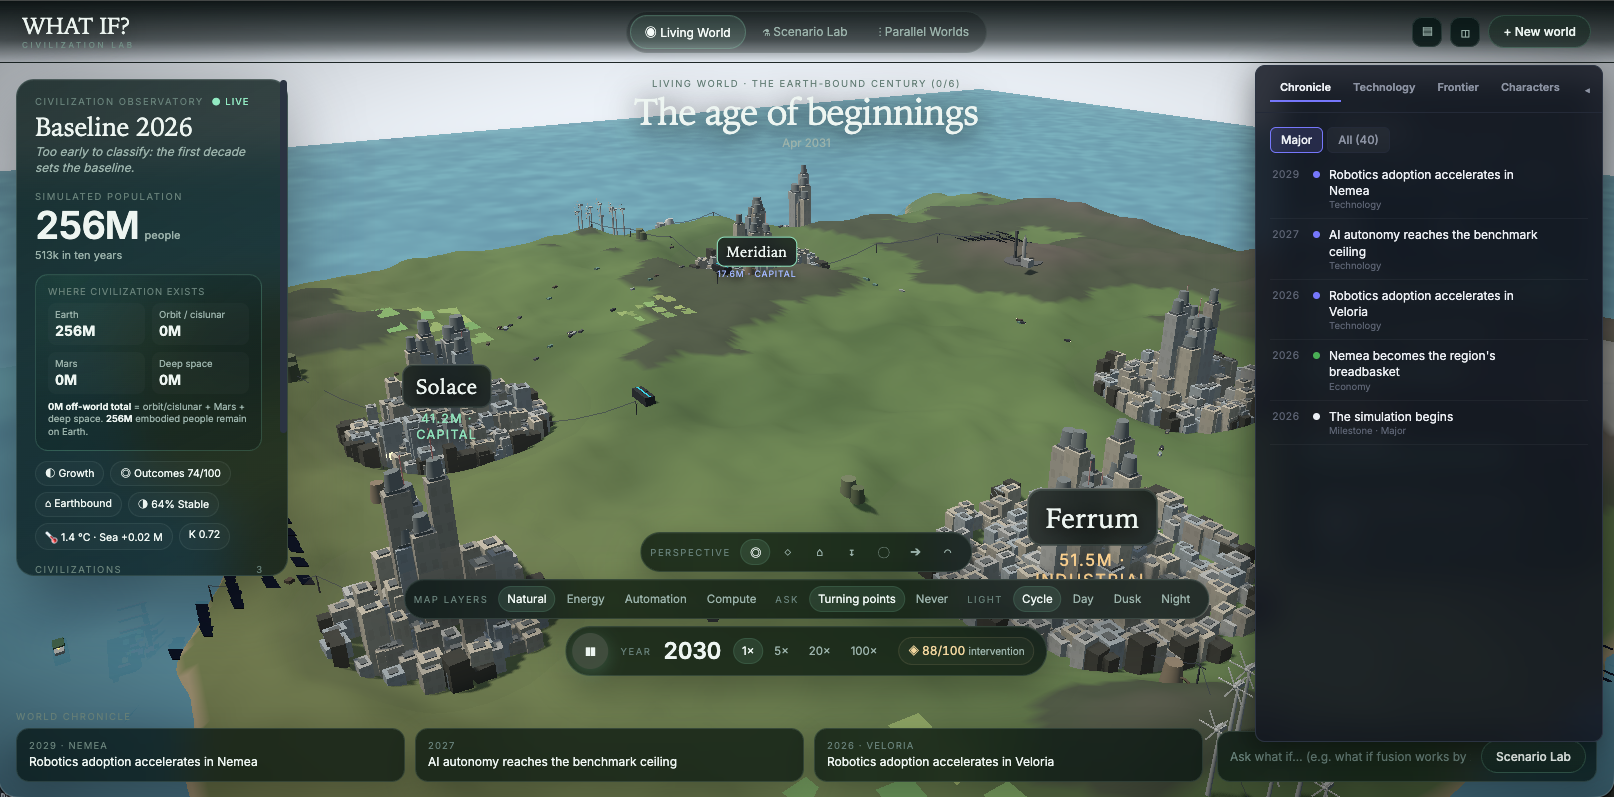
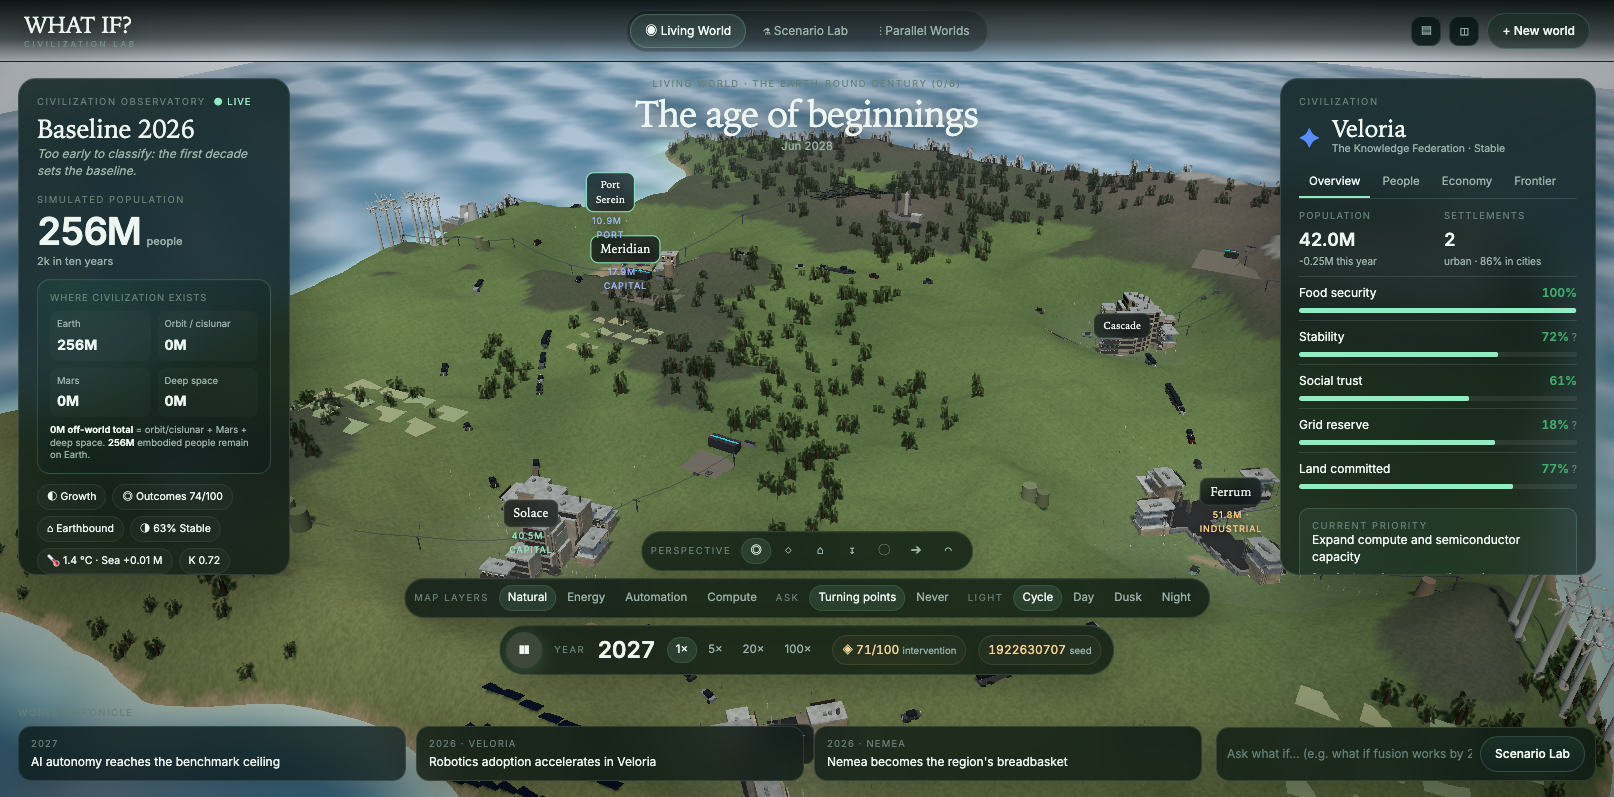
CDN build: one fiber instance for the react-three family; README world view recaptured

diff --git a/tools/build-cdn.py b/tools/build-cdn.py
@@ -58,6 +58,15 @@ open(os.path.join(DIST, 'index.css'), 'w').write(preflight + css)
 pkg = json.load(open('package.json')); d = pkg['dependencies']
 v = lambda k: d[k].lstrip('^~')
 ext = 'external=react,react-dom,three'
+# The react-three family must share ONE @react-three/fiber instance: drei and
+# postprocessing import fiber internally, and esm.sh resolves that to the newest
+# 9.x by itself - the day fiber 9.8.2 appeared, drei bundles carried a second
+# fiber whose hook context was not the <Canvas> context the app's fiber created,
+# and the world failed with "R3F: Hooks can only be used within the Canvas
+# component!" (worked for months while both sides resolved to 9.7.0). `deps=`
+# pins their dependency graph to exactly the fiber version package.json names.
+FIBER = v('@react-three/fiber')
+ext_r3f = f"{ext}&deps=@react-three/fiber@{FIBER}"
 importmap = {"imports": {
   "react": f"https://esm.sh/react@{v('react')}",
   "react/": f"https://esm.sh/react@{v('react')}/",
@@ -66,9 +75,9 @@ importmap = {"imports": {
   "react-dom/client": f"https://esm.sh/react-dom@{v('react-dom')}/client?external=react",
   "three": f"https://esm.sh/three@{v('three')}",
   "three/": f"https://esm.sh/three@{v('three')}/",
-  "@react-three/fiber": f"https://esm.sh/@react-three/fiber@{v('@react-three/fiber')}?{ext}",
-  "@react-three/drei": f"https://esm.sh/@react-three/drei@{v('@react-three/drei')}?{ext}",
-  "@react-three/postprocessing": f"https://esm.sh/@react-three/postprocessing@{v('@react-three/postprocessing')}?{ext}",
+  "@react-three/fiber": f"https://esm.sh/@react-three/fiber@{FIBER}?{ext}",
+  "@react-three/drei": f"https://esm.sh/@react-three/drei@{v('@react-three/drei')}?{ext_r3f}",
+  "@react-three/postprocessing": f"https://esm.sh/@react-three/postprocessing@{v('@react-three/postprocessing')}?{ext_r3f}",
   "zustand": f"https://esm.sh/zustand@{v('zustand')}?external=react",
 }}
 DIAG = r'''

diff --git a/CHANGES.md b/CHANGES.md
@@ -4,6 +4,8 @@
 
 No simulation or rendering change; everything here is about the pipeline around the build and the honesty of the repo's own verification files.
 
+- **The world renders on the deployed build again.** The CDN delivery resolves shared dependencies on its own: when `@react-three/fiber` 9.8.2 appeared on esm.sh, the drei bundle began carrying a *second* fiber copy whose hook context was not the context the app's fiber 9.7.0 `<Canvas>` created, and entering the world failed with "R3F: Hooks can only be used within the Canvas component!" — a break that landed with zero repository changes and passed every CI gate, because none of them renders. `tools/build-cdn.py` now pins the react-three family's dependency graph to exactly the fiber version `package.json` names (esm.sh's `deps=` parameter), so all of them share one fiber instance regardless of what esm.sh publishes next. Verified by actually entering the world in a real browser, which the build pipeline still does not do.
+
 - **Deploys work again.** The xhostd MCP server renamed `get_deploy_log` to `get_logs`, so every release after the server-side change built, tested, packed and pushed successfully — and then failed at the last step, leaving the prod channel serving nothing. `tools/xhost-deploy.py` now discovers the log tool by name and builds its arguments from the inputSchema the server itself advertises, so a future rename degrades to a precise error, not a mystery exit code. Verified against a local fake MCP server for both the success and failure paths.
 - **Deploy failures are visible without log access.** The script now emits `::error::` GitHub annotations on every failure path (auth, missing tools, no deploy id, failed or timed-out deploy); job logs require admin rights to read, annotations do not.
 - **Lint errors at zero for the whole non-React backlog.** Fourteen `no-explicit-any`, `prefer-const`, `no-unused-vars` and `no-useless-escape` findings across `src/ui`, `src/sim` and `tools/` are fixed with real types (`CSSProperties` for CSS custom properties, a typed capacity-factor table, `CivState`/`unknown` parameter types, a narrowed relation-field write in `branch.ts`). The react-hooks and react-refresh findings remain the known, reported-only backlog.

diff --git a/README.md b/README.md
@@ -14,7 +14,7 @@ Then the clock runs one month at a time.
 
 Nobody, including me, knows in advance where it ends.
 
-![Baseline world view of the WHAT IF? Civilization Lab, showing the island's three capitals and the Living World chronicle panel](images/world-view.png)
+![Baseline world view of the WHAT IF? Civilization Lab: the island with its settlements, the Civilization Observatory and the Living World chronicle](images/world-view.png)
 
 ## Why I built it
 
